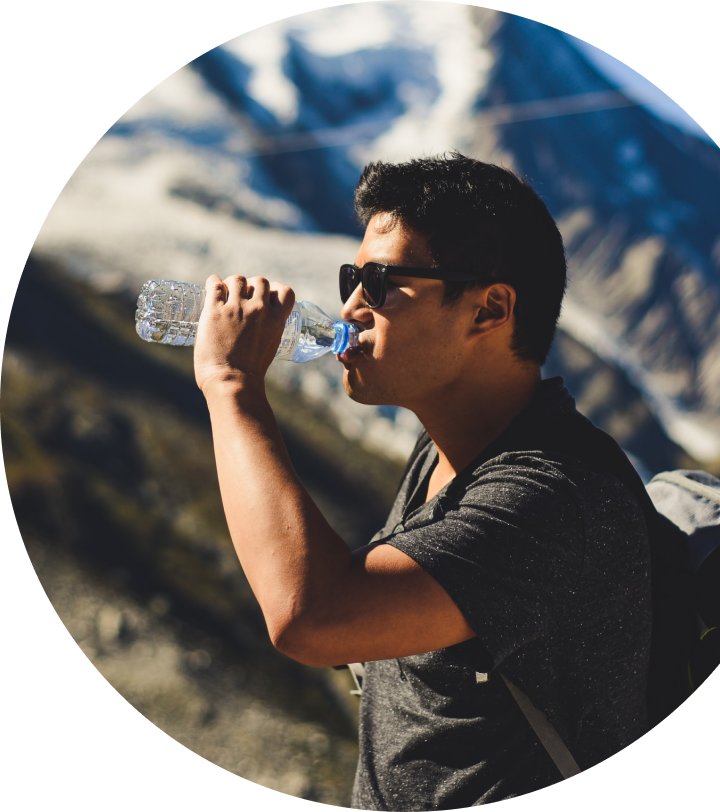
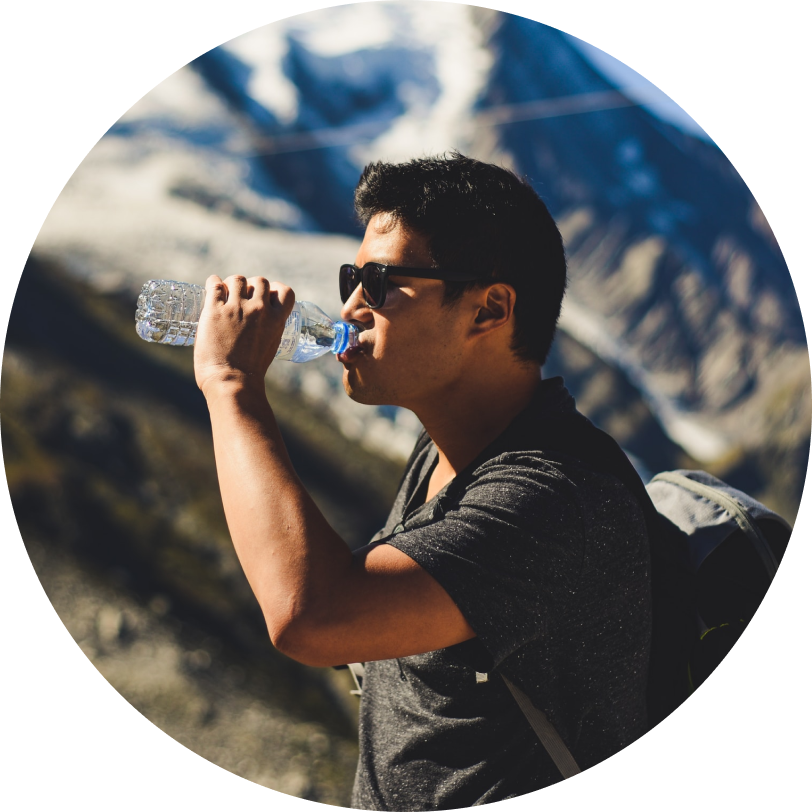
06 edited

diff --git a/HomeWork 06/styles/style.css b/HomeWork 06/styles/style.css
@@ -8,20 +8,18 @@ body{
 }
 
 header,
-section,
+.bg-wrapper,
 footer{
     width: 84%;
 }
-section,
+.bg-wrapper,
 .countryBar,
 footer{
     margin: 0 auto;
 }
-/*section{
-    margin: 0 auto;
-    display: flex; 
-}*/
+
 .bg-title{
+    width: 50%;
     display: flex;
     flex-direction: column;
 }
@@ -91,39 +89,38 @@ footer{
     color: #7A7A7A;
     font-size: 18px;
 }
+.bg-picture{
+    margin: 0 0;
+    width: 812px;
+    height: 812px;
+    background-image: url(../images/background.png);
+    background-repeat: no-repeat;
+    background-position: right center;
+}
 .textTitle{
     color: #333;
     font-size: 36px;
     font-weight: 800;
+    margin: 187px 0 0 0;
 }
 .colorText{
     color: #BC436A;
 }
-.bg-title{
-    display: flex;
+.textP{
+    margin: 33px 0 0 0;
 }
-.bg-picture{
-    width: 812px;
-    height: 812px;
-    background-image: url(../images/bg-full.png);
-    background-repeat: no-repeat;
-    background-position: left center;
-    border-radius: 50%;
-    /* margin-left: -94px; */
-}
-/* .bg-img, */
-.description,
-.where{
-    width: 50%;
-}
+
 .where>p{
     margin: 229px 0 0 0;
     padding-right: 60.66%;
 }
-.arrow{
+/* .arrow{
     width: 100%;
+} */
+.where{
+    position: relative;
 }
-.arrow::after{
+.where::after{
     content: "";
     display: block;
     width: 24px;
@@ -132,8 +129,8 @@ footer{
     position: absolute;
     background-position: center;
     background-repeat: no-repeat;
-    top: 0;
-    left: 22%;
+    left: 212px;
+    bottom: 0;
 }
 .countryBar{
     display: flex;

diff --git a/HomeWork 06/index.html b/HomeWork 06/index.html
@@ -28,21 +28,22 @@
         </div>
     </header>
 
-    <section class="background">
+    <div class="bg-picture"></div>
+    <div class="bg-wrapper">
         <div class="bg-title">
-            <div class="bg-img">
-                <div class="bg-picture"></div>
-            </div>
-            
-            <div class="description">
-                <p class="textTitle">Know the <span class="colorText">BEST</span>  places to visit <br> when you are on <span class="colorText">VACATION</span></h2>
+        
+        <div class="description">
+            <p class="textTitle">Know the <span class="colorText">BEST</span>  places to visit <br> when you are on <span class="colorText">VACATION</span></h2>
 
-                <p>We offer the best and relaxing atmosphere and have one of the <br> best deal to sweeten your vacation and make it a trip to <br> remember. We have luxurious destinations around the world.</p>  
-            </div>
-            <div class="where">
-                <p class="arrow">Where will we take you</p>
-            </div>
+            <p class="textP">We offer the best and relaxing atmosphere and have one of the <br> best deal to sweeten your vacation and make it a trip to <br> remember. We have luxurious destinations around the world.</p>  
         </div>
+        <div class="where">
+            <p class="arrow">Where will we take you</p>
+        </div>
+    </div>
+    </div>
+    
+   
             
            
         <div class="countryBar">
